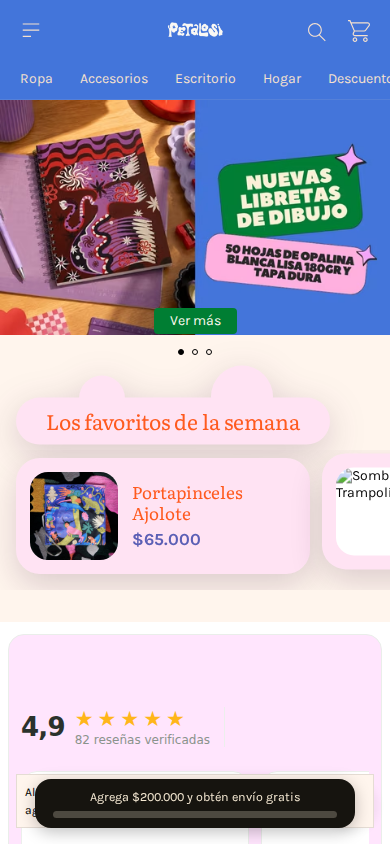
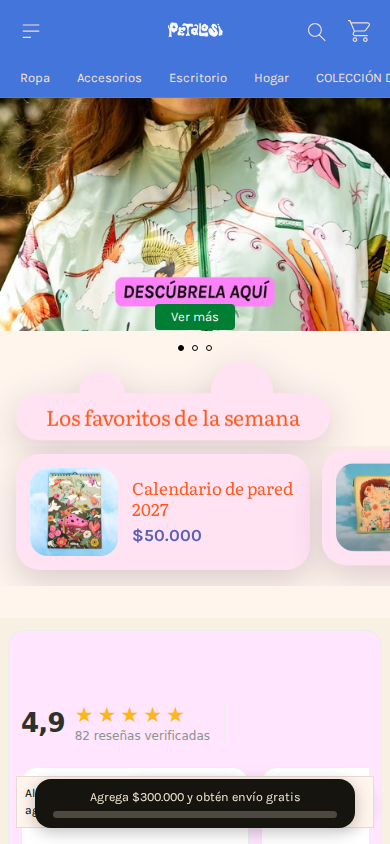
Update floating favorites to best sellers of Oct 13-20 2026
Calendario de pared 2027 (6 units), Funda de tablet 11" Soy mi propio
hogar (2) and Pañito Limpiagafas (2). Also decode HTML entities in
product names read from the page (e.g. 11&quot;).

Claude-Session: https://claude.ai/code/session_01M6pHdPGfvJyXaXkk7TgqUC

diff --git a/tiendanube/productos-flotantes/productos-flotantes.html b/tiendanube/productos-flotantes/productos-flotantes.html
@@ -4,7 +4,7 @@
   Pega TODO este bloque (estilos + script) en Tiendanube:
   Configuración › Códigos externos (sección de scripts / "código en el footer").
 
-  Productos: los más vendidos de los últimos 15 días (13–28 sep 2026).
+  Productos: los más vendidos de la semana (13–20 oct 2026).
   Para cambiarlos, edita PRODUCT_IDS más abajo.
   El script lee nombre, foto, precio y descuento de los productos que ya
   se muestran en el home, así que precios y promos se actualizan solos.
@@ -174,35 +174,42 @@
   var TITLE = 'Los favoritos de la semana';
 
   // ▼▼ Productos a destacar (IDs de Tiendanube, en el orden en que se muestran) ▼▼
-  // Más vendidos del 13 al 28 de sept. 2026. Todos empataron en 1 unidad,
-  // así que se eligieron los de las compras más recientes.
-  var PRODUCT_IDS = ['348267174', '284226623', '342868992'];
+  // Más vendidos del 13 al 20 de oct. 2026 (unidades en pedidos pagados):
+  //   Calendario de pared 2027: 6 · Funda de tablet Soy mi propio hogar: 2 · Pañito Limpiagafas: 2
+  var PRODUCT_IDS = ['371560450', '371561791', '241837592'];
 
   // Datos de respaldo por si el producto no está en ninguna lista del home.
   // "desc" se usa siempre como texto corto de la tarjeta.
   var FALLBACK = {
-    '348267174': {
-      name: 'Portapinceles Ajolote',
-      url: 'https://www.petalosi.co/productos/portapinceles-tigre-copia-sd8b1/',
-      image: 'https://acdn-us.mitiendanube.com/stores/005/464/701/products/portapinceles-morado-5cdd168ada5a130cf117805043514422-480-0.webp',
-      desc: 'Organiza tus pinceles con estilo: trae una tira resistente para amarrarlo.',
-      price: '$65.000', old: ''
+    '371560450': {
+      name: 'Calendario de pared 2027',
+      url: 'https://www.petalosi.co/productos/calendario-de-pared-2027-1be2e/',
+      image: 'https://acdn-us.mitiendanube.com/stores/005/464/701/products/dscf0502-d6d0ebb14711fb6f8d17910545614557-480-0.webp',
+      desc: 'La estrella de Petalosi. Edición limitada, Colección Deriva.',
+      price: '$50.000', old: ''
     },
-    '284226623': {
-      name: 'Sombrero Trampolín',
-      url: 'https://www.petalosi.co/productos/sombrero-trampolin/',
-      image: 'https://acdn-us.mitiendanube.com/stores/005/464/701/products/img_0663-783031a662c4d9af3917537153928826-480-0.webp',
-      desc: 'Doble estampado, ligero y cómodo. Ideal para el sol colombiano.',
-      price: '$60.000', old: '$85.000'
+    '371561791': {
+      name: 'Funda de tablet 11" Soy mi propio hogar',
+      url: 'https://www.petalosi.co/productos/funda-de-tablet-11-soy-mi-propio-hogar-1wfnp/',
+      image: 'https://acdn-us.mitiendanube.com/stores/005/464/701/products/img_4119-b3ff9d6f5142a38d1d17910390817469-480-0.webp',
+      desc: 'Inspirada en la idea de que somos nuestro propio hogar. Colección Deriva.',
+      price: '$70.000', old: ''
     },
-    '342868992': {
-      name: 'Bolso impermeable Cigüeña japonesa',
-      url: 'https://www.petalosi.co/productos/bolso-impermeable-flores-electricas-1xp3t/',
-      image: 'https://acdn-us.mitiendanube.com/stores/005/464/701/products/5-9ee68ecdbbb986d32e17782588752066-480-0.webp',
-      desc: 'Resistente y portátil, para la playa, el mercado o la oficina.',
-      price: '$80.000', old: ''
+    '241837592': {
+      name: 'Pañito Limpiagafas',
+      url: 'https://www.petalosi.co/productos/panito-limpiagafas/',
+      image: 'https://acdn-us.mitiendanube.com/stores/005/464/701/products/mesa-de-trabajo-3-09835e76acd85e3cdd17782813880466-480-0.webp',
+      desc: 'Limpia tus gafas con estilo. Ilustrado y en muchos diseños.',
+      price: '$15.000', old: ''
     }
   };
+
+  // Algunos nombres vienen con entidades HTML (p. ej. 11&quot;).
+  function decode(text) {
+    var t = document.createElement('textarea');
+    t.innerHTML = text || '';
+    return t.value;
+  }
 
   function readFromPage(id) {
     var item = document.querySelector('.js-item-product[data-product-id="' + id + '"]');
@@ -211,7 +218,7 @@
     try {
       var ld = item.querySelector('script[type="application/ld+json"]');
       var info = JSON.parse(ld.textContent);
-      data.name = info.name;
+      data.name = decode(info.name);
       data.url = info.offers && info.offers.url;
       data.image = info.image;
       data.desc = info.description;
